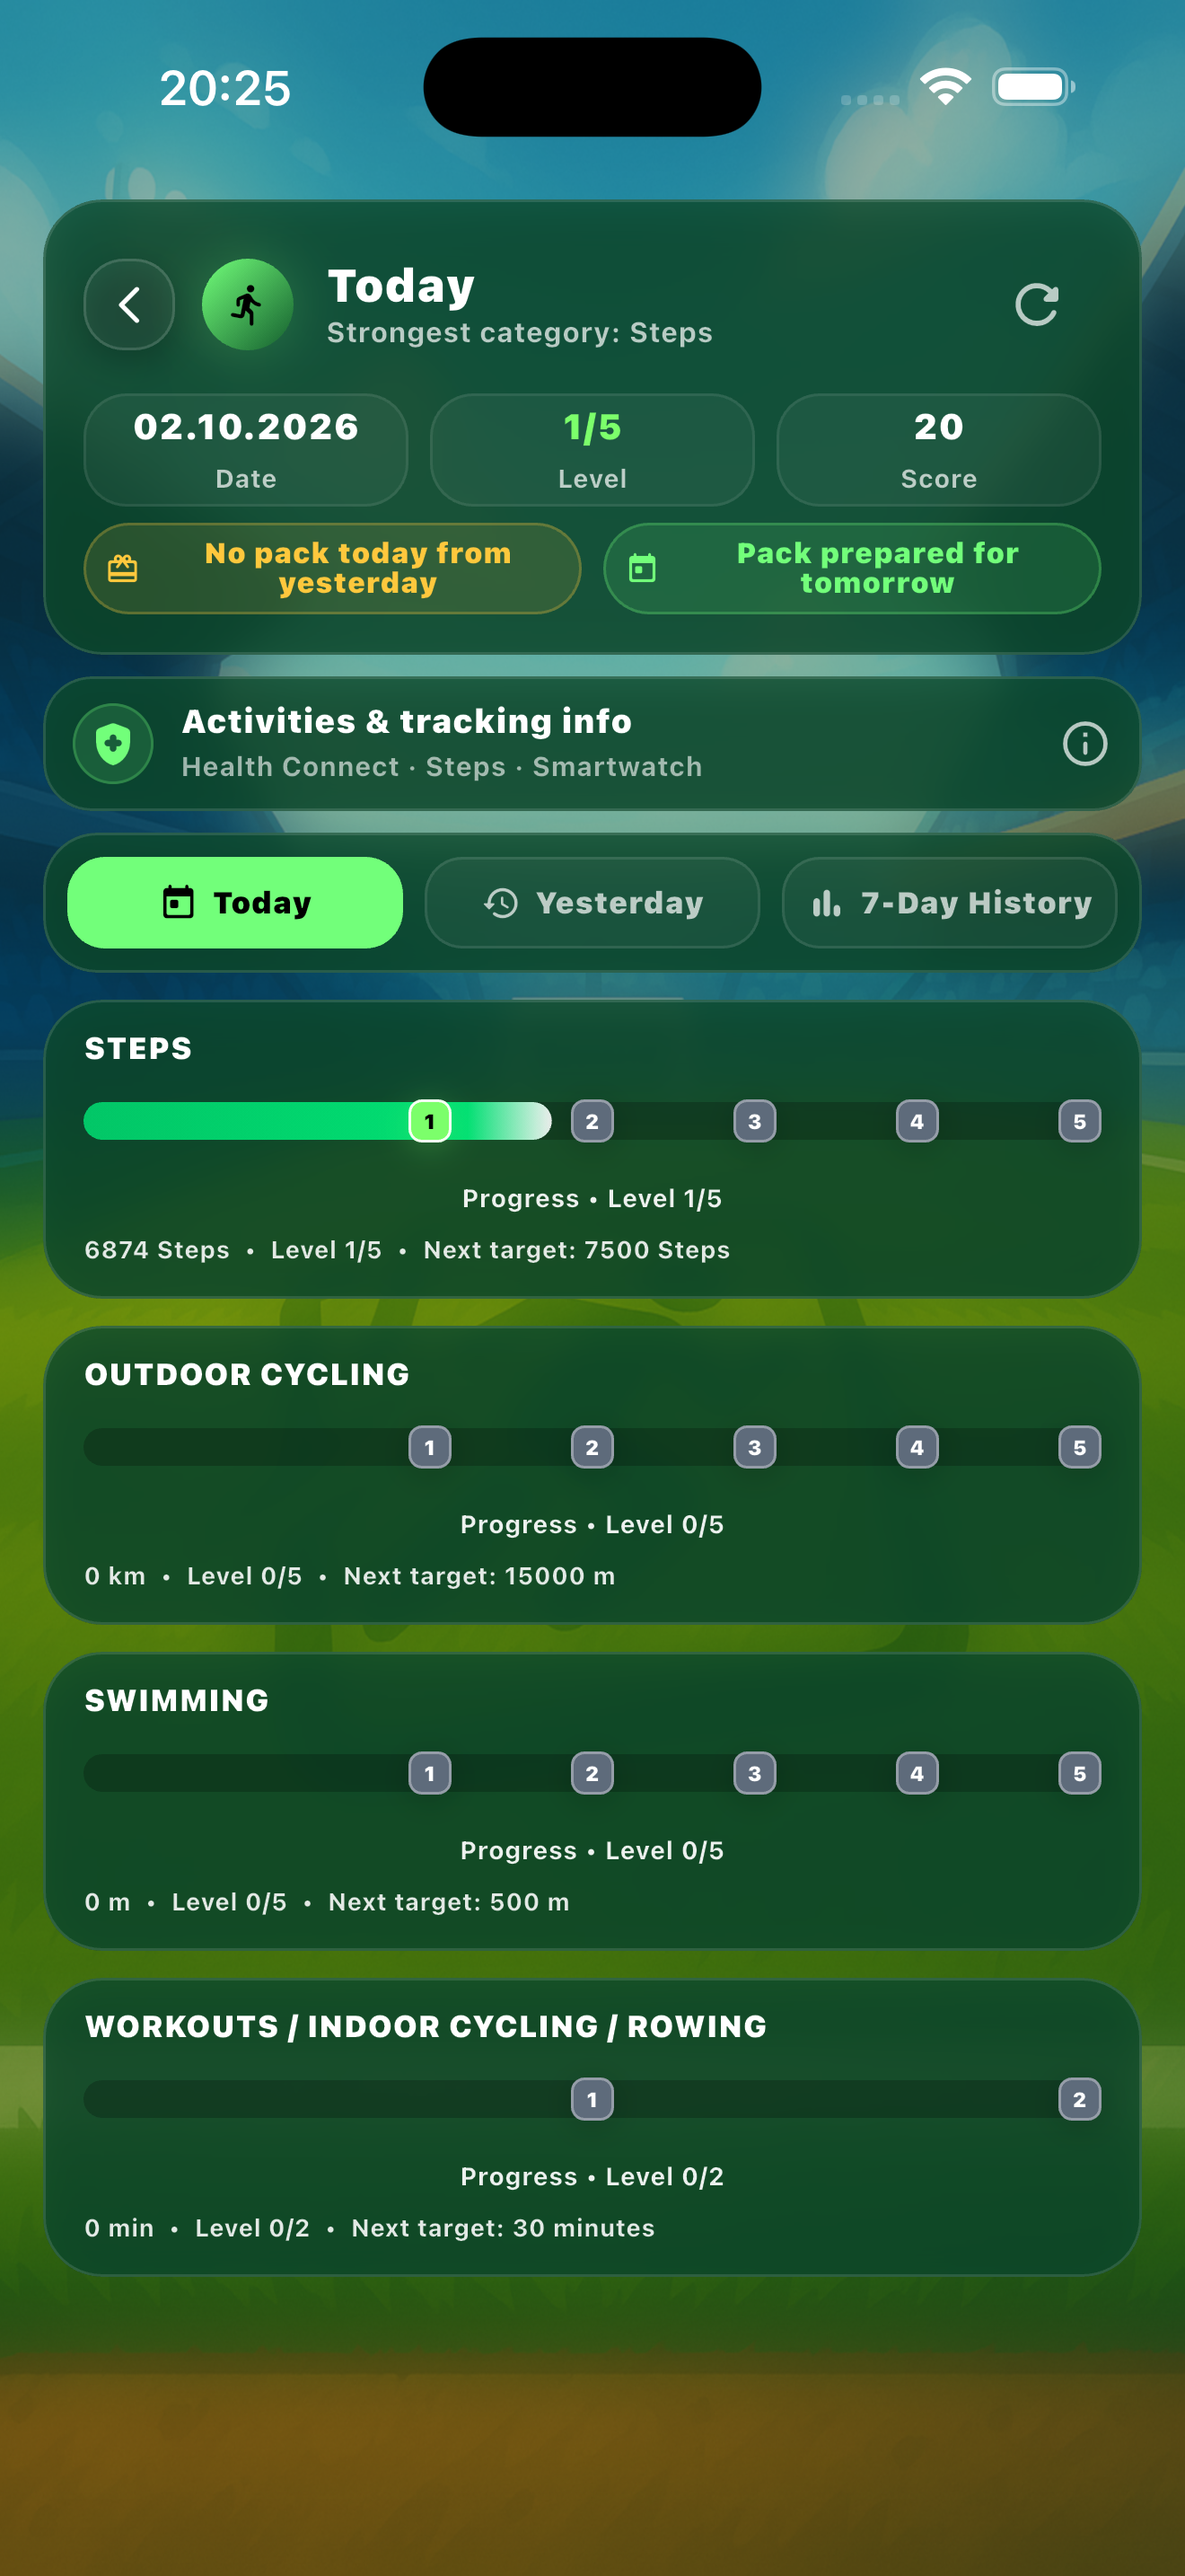
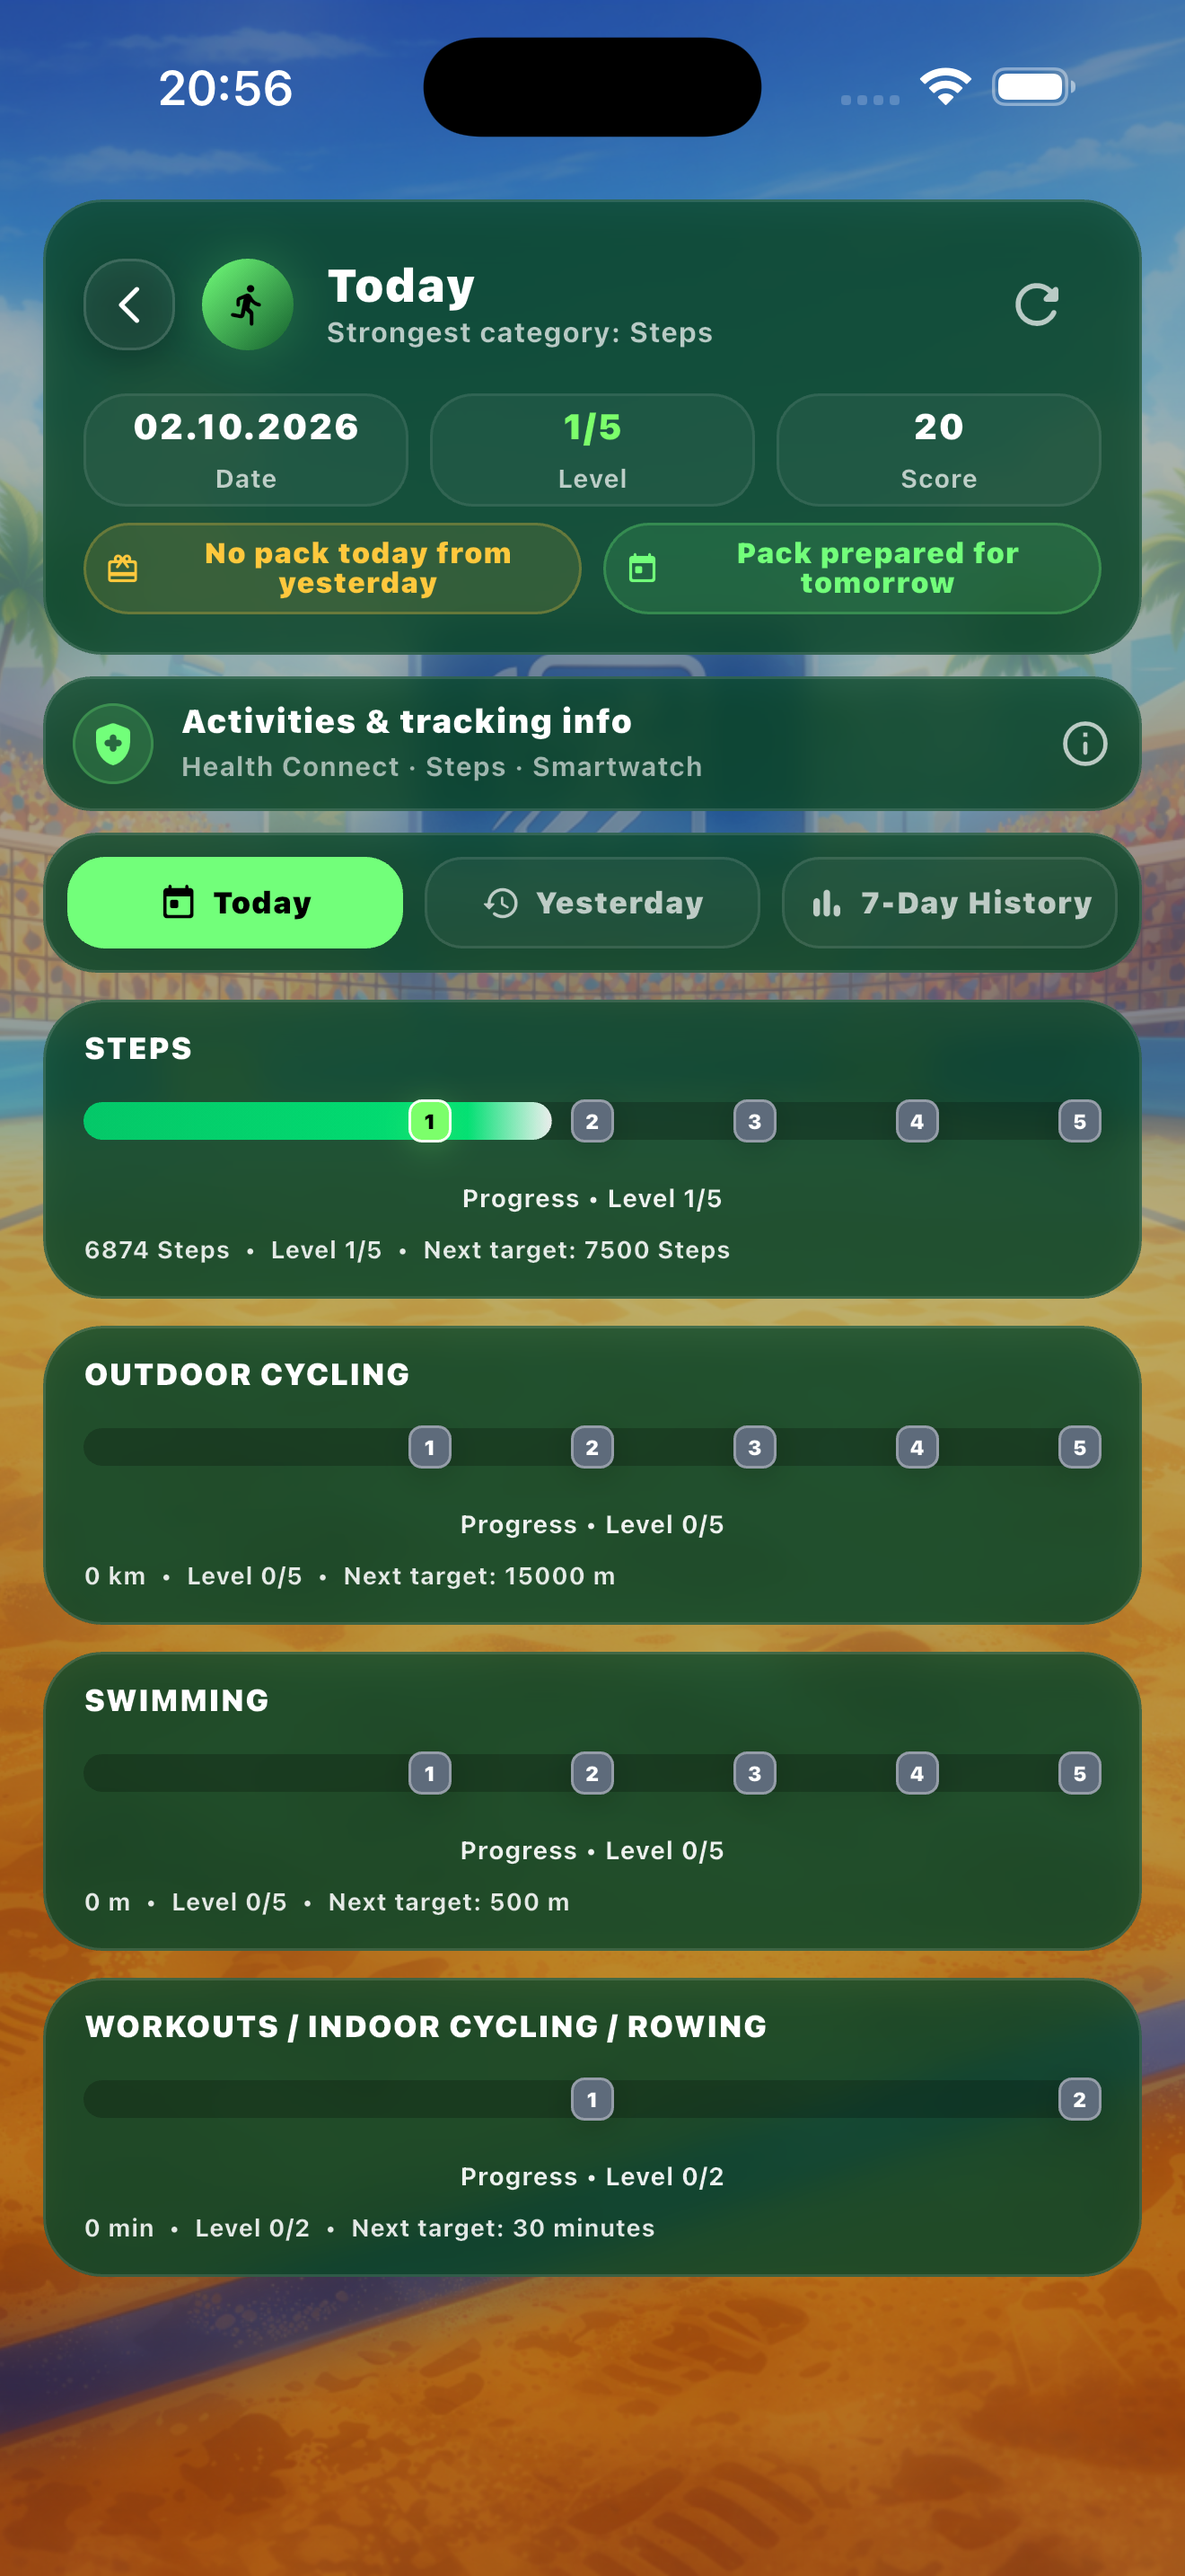
Update homepage screenshots and stamp preview

Changed region(s): [[0.0, 0.0, 1.0, 1.0], [0.3106, 0.3103, 0.7144, 0.3414]]

diff --git a/app/page.tsx b/app/page.tsx
@@ -77,7 +77,7 @@ const screenshotFiles = [
   "/movement-detail-screen.png",
   "/nearby-screen.png",
   "/events-screen.png",
-  "/friends-screen.png",
+  "/friend-screen.png",
 ];
 
 function makeScreens(items: { title: string; text: string }[]): ScreenshotItem[] {
@@ -1688,10 +1688,9 @@ function ScreenshotCard({
           }}
         >
           <div style={phoneFrameInnerStyle}>
-            <div style={phoneNotchStyle} />
             <div style={screenshotRealWrapStyle}>
               <img
-                src={`${fileName}?v=iphone-1320x2868`}
+                src={`${fileName}?v=iphone-1320x2868-fullframe-v2`}
                 alt={title}
                 width={1320}
                 height={2868}
@@ -1823,7 +1822,7 @@ function Lightbox({
             }}
           >
             <img
-              src={`${item.fileName}?v=iphone-1320x2868`}
+              src={`${item.fileName}?v=iphone-1320x2868-fullframe-v2`}
               alt={item.title}
               width={1320}
               height={2868}
@@ -2381,28 +2380,15 @@ const phoneFrameInnerStyle: React.CSSProperties = {
   position: "relative",
   borderRadius: "30px",
   background: "#000000",
-  padding: "14px 8px 8px 8px",
+  padding: 0,
   overflow: "hidden",
-};
-
-const phoneNotchStyle: React.CSSProperties = {
-  position: "absolute",
-  top: "6px",
-  left: "50%",
-  transform: "translateX(-50%)",
-  width: "92px",
-  height: "16px",
-  borderRadius: "999px",
-  background: "#0a0a0a",
-  boxShadow: "inset 0 -1px 2px rgba(255,255,255,0.08)",
-  zIndex: 2,
 };
 
 const screenshotRealWrapStyle: React.CSSProperties = {
   position: "relative",
   width: "100%",
   aspectRatio: "1320 / 2868",
-  borderRadius: "24px",
+  borderRadius: "30px",
   overflow: "hidden",
   background: "#000000",
 };
@@ -2410,7 +2396,7 @@ const screenshotRealWrapStyle: React.CSSProperties = {
 const screenshotImageStyle: React.CSSProperties = {
   width: "100%",
   height: "100%",
-  objectFit: "contain",
+  objectFit: "cover",
   objectPosition: "center top",
   display: "block",
 };
@@ -2768,7 +2754,7 @@ const lightboxPhoneWrapStyle: React.CSSProperties = {
 const lightboxImageStyle: React.CSSProperties = {
   width: "100%",
   height: "100%",
-  objectFit: "contain",
+  objectFit: "cover",
   objectPosition: "center top",
   display: "block",
 };
